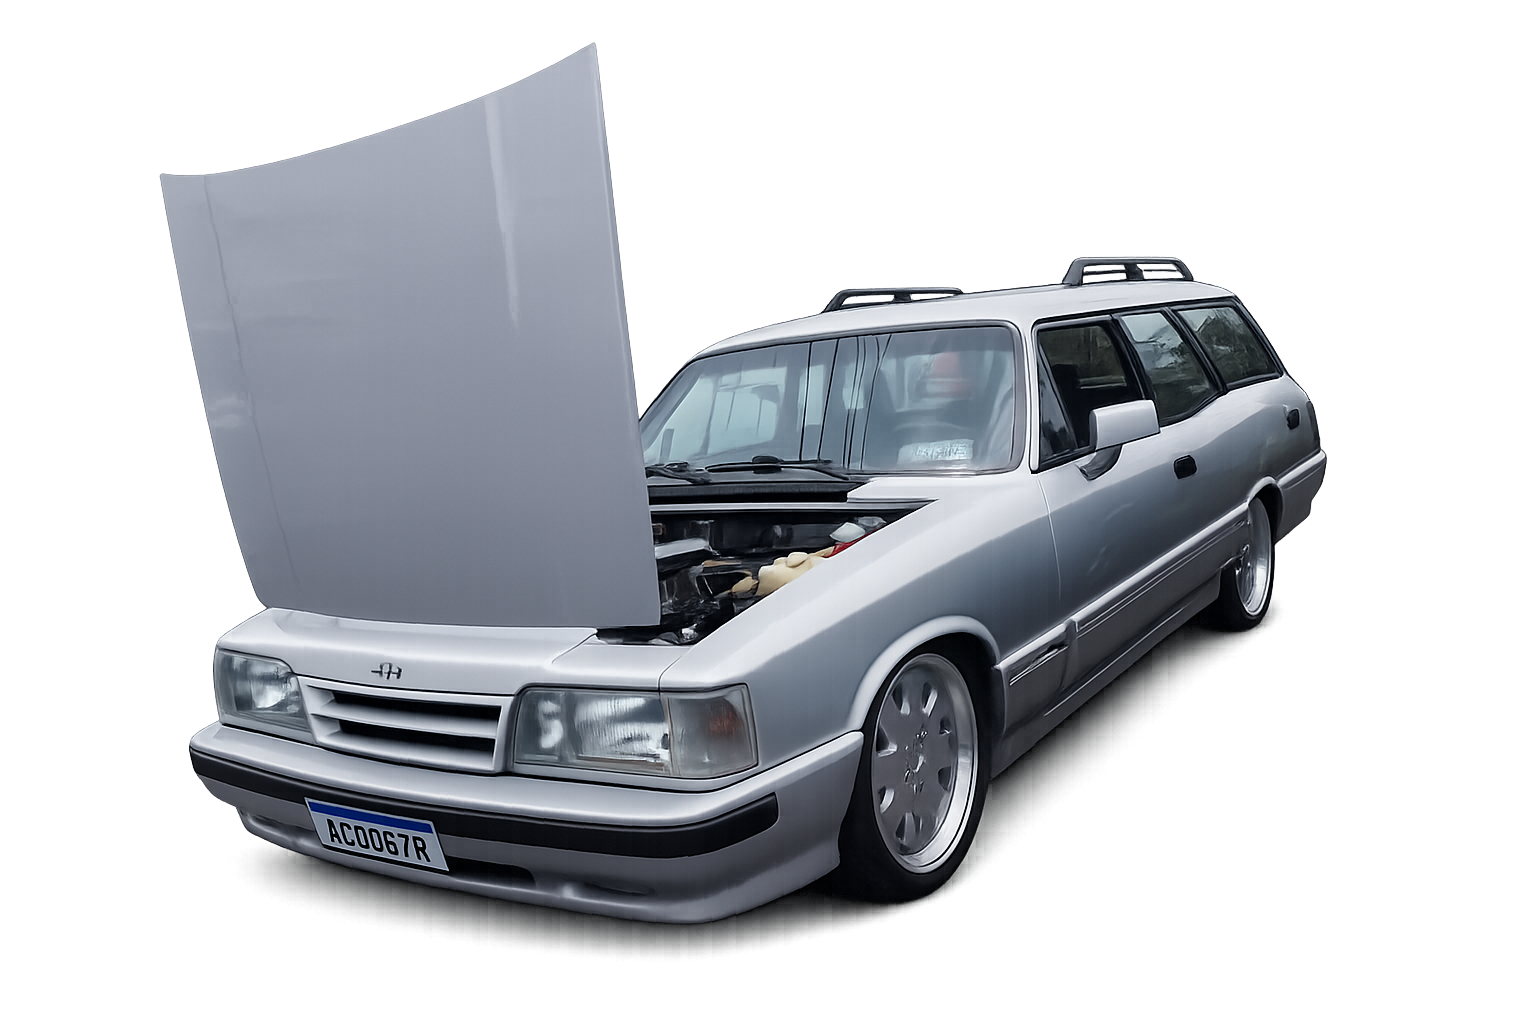
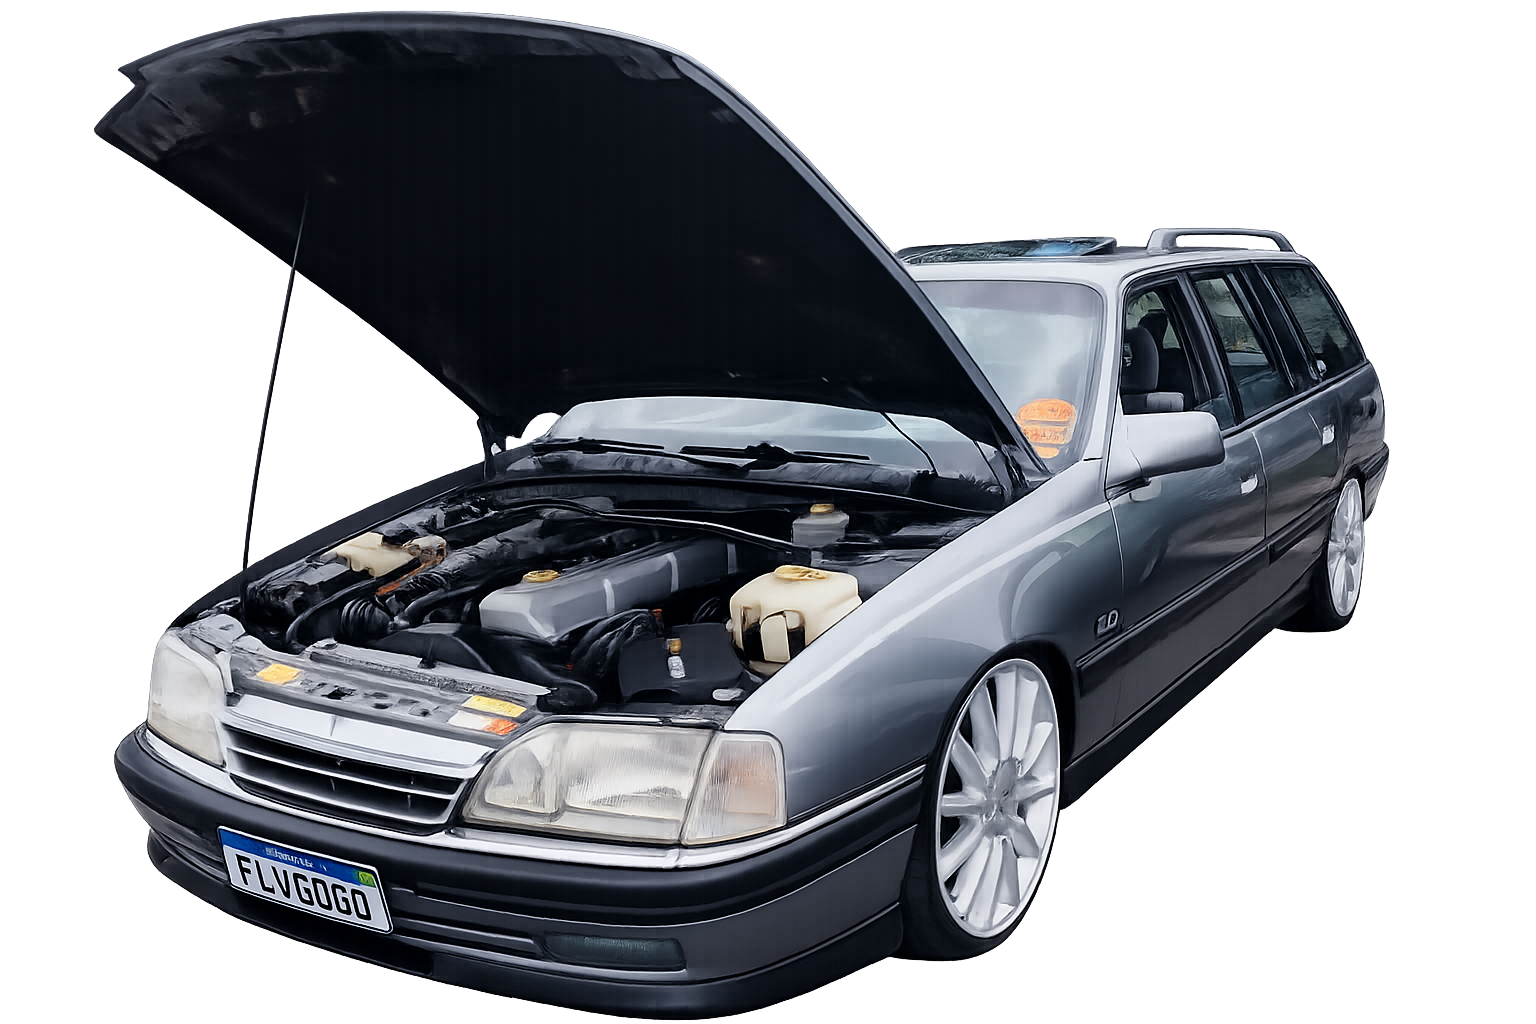
att

diff --git a/Html alisson/inde.html b/Html alisson/inde.html
@@ -9,7 +9,9 @@
 <body>
 
 <section>
+    <nav class="menu">
     <h1>Carros antigos</h1>
+    </nav>
 
     <div class="carros">
 
@@ -44,8 +46,8 @@
         </section>
 
         <section class="caravan">
-            <h2>Omega Suprema</h2>
-            <img src="imgs/omegasuprema.png" alt="Caravan">
+            <h2>Caravan Comodoro 1990</h2>
+            <img src="imgs/caravan.png" alt="Caravan">
 
             <div class="caravan-texto">
                 <p>
@@ -72,6 +74,66 @@
                 </p>
             </div>
         </section>
+        
+        <section class="omegasuprema">
+         <h2>Omega Suprema CD 4.1</h2>
+          <img src="imgs/omegasuprema.png" alt="">
+            <div class="omegasuprema-texto">
+               <p>Chevrolet Omega Suprema CD <br>
+                Motor:6 cilindros em linha <br>
+                168 cv (4.1) <br>
+                Tração: traseira <br>
+                Câmbio: manual de 5 marchas ou automático de 4 marchas <br>
+                Velocidade máxima: ~195–220 km/h <br>
+                0–100 km/h: ~8,5–11 s (varia conforme motor) <br>
+                Consumo cidade: ~6–8 km/l <br>
+                Consumo estrada: ~9–12 km/l <br>
+                Tanque: 65 litros <br>
+                Comprimento: ~4.780 mm <br>
+                Largura: ~1.770 mm <br>
+                Altura: ~1.440 mm <br>
+                Entre-eixos: ~2.730 mm <br>
+                Peso: ~1.350–1.550 kg <br>
+                Direção hidráulica <br>
+                Freios a disco na dianteira <br>
+               </p>
+
+            </div>
+
+        </section>
+
+         <section class="chevette">
+          <h2>Chevette SL/E 1990</h2>
+           <img src="imgs/chevettefundo.png" alt="">
+            <div class="chevette texto">
+              <p>Modelo: Chevrolet Chevette <br>
+                Carroceria: Sedan 2 portas <br>
+                Motor: 4 cilindros em linha <br>
+                Cilindrada: 1.6 litros <br>
+                Potência: 80 cv <br>
+                Torque: 12 kgfm <br>
+                Tração: traseira <br>
+                Câmbio: 5 marchas <br>
+                Velocidade máxima: ~150–165 km/h <br>
+                0–100 km/h: ~14–17 s <br>
+                Consumo cidade: ~8–10 km/l  <br>
+                Consumo estrada: ~11–14 km/l <br>
+                Tanque: 50 litros <br>
+                Comprimento: ~4.120 mm <br>
+                Largura: ~1.570 mm <br>
+                Altura: ~1.340 mm <br>
+                Entre-eixos: ~2.390 mm <br>
+                Peso: ~900–980 kg  <br>
+                Freios a disco na dianteira <br>
+                Direção mecânica <br>
+                Bancos em tecido <br>
+                Desembaçador traseiro <br>
+                Painel simples com marcador de combustível e temperatura <br>
+                Porta-malas ~300 litros <br>                
+              </p> 
+
+           </div>
+         </section>
 
     </div>
 

diff --git a/Html alisson/style.css b/Html alisson/style.css
@@ -17,6 +17,7 @@ h1 {
     text-align: center;
     margin: 40px 0;
     font-size: 40px;
+    padding-top: 15px;
 }
 
 /* CONTAINER DOS DOIS CARROS */
@@ -29,7 +30,8 @@ h1 {
 
 /* CADA CARRO */
 .omega,
-.caravan {
+.caravan,
+ .omegasuprema {
     display: flex;
     flex-direction: column;   /* coloca tudo em coluna */
     align-items: flex-start;  /* alinha à esquerda */
@@ -44,7 +46,9 @@ h2 {
 
 /* IMAGEM */
 .omega img,
-.caravan img {
+.caravan img,
+.omegasuprema img
+ {
     width: 280px;
     margin-bottom: 20px;
 }
@@ -53,4 +57,17 @@ h2 {
 p {
     line-height: 1.6;
     font-size: 15px;
+}
+
+.chevette img {
+    width: 290px;
+    margin-bottom: 10px;
+    display: flex;
+    flex-direction: column;   /* coloca tudo em coluna */
+    align-items: flex-start;  /* alinha à esquerda */
+    max-width: 400px;
+}
+
+.menu {
+    border-bottom: 1px solid gray;
 }
